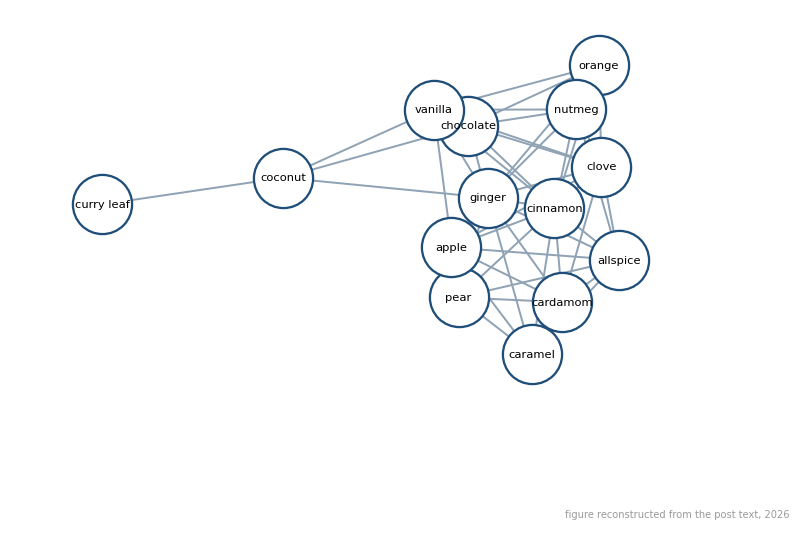
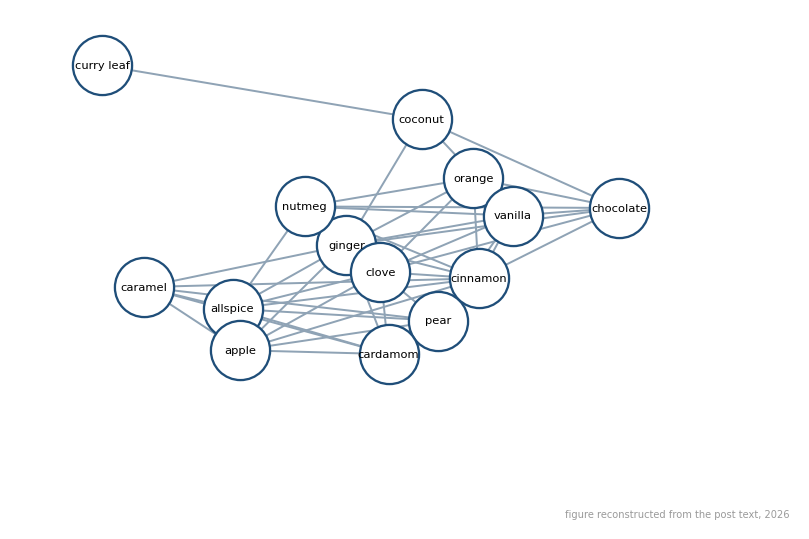
Reconstruct the last 10 recoverable figures, and close out the manifest
p=15582: the worked grid example, the nine obstacle variations, and the
connectivity plot whose flat line at 2 is the post's actual punchline.
p=13089: the line with a hole the post argues is continuous, and the two
it calls discontinuous. p=14586: the force on one particle and the
continuum. p=15808: the computation graph where x_2 feeds two functions
that are not nested. p=15139: the FTC animation, rebuilt. p=16773: the
smoking/LD01 DAG with the city as confounder.

timevscomplexity.png on p=15582 is deliberately left. The post reports
around 100000 steps for its last variation against under 1000 for the
rest; solving the hitting time exactly gives 542 falling to 324 on the
reduced graph, or 602 dipping to 501 then rising to 648 under a
bounce-back move model. The shape is reproducible, the two orders of
magnitude are not, so the figure would either invent its numbers or
contradict the text beside it.

The manifest also gains everything confirmed third-party on this pass:
the Wikipedia Turing machine, the logic textbook scans, the CFD blog
image, the Zhang and Bareinboim algorithm boxes, the Neural ODE figure,
a television still, a book cover, a photographed sketch, and the
two-thirds-game histogram whose underlying data is gone.

diff --git a/_reconstruction/posts/final_batch_figures.py b/_reconstruction/posts/final_batch_figures.py
@@ -1,0 +1,236 @@
+#!/usr/bin/env python3
+"""Seven lost figures across five posts.
+
+p=13089, the confusion about discontinuity:
+  graph-1          f(x) = (x-1)(x+2)/(x+2), which the post argues "is a
+                   continuous function, because x = -2 is not in the domain"
+  graphs-2-and-3   the two the post then calls discontinuous: the same f but
+                   defined at x=-2 with f(-2) != -3, and a jump where "the
+                   function is defined at the jump"
+
+p=14586, PDE part I:
+  force-on-particle  Newton's second law on one particle
+  continuum-moving   the continuum, "a continuous medium with continuous
+                   parameter xi somehow identifying individual particles. For
+                   example, xi can denote the initial position"
+
+p=15808, automatic differentiation:
+  comp_graph_2     "the case where x_2 is an input to functions that are not
+                   nested", which is why the partials are summed
+
+p=15139, the Fundamental Theorem of Calculus:
+  ftc-1.gif        "a graph in blue of some function f. We are looking at the
+                   area under this curve which is the region shaded in blue. We
+                   are varying the upper limit"
+
+p=16773, causal inference:
+  dagitty-model-2  the DAG the post reads off: "LD01 is influenced by genetics,
+                   living in the city and smoking; smoking is influenced by
+                   living in the city", with smoking as treatment and LD01 as
+                   outcome, and living in Smoketopia the confounder
+"""
+import sys, os
+sys.path.insert(0, os.path.dirname(os.path.dirname(os.path.abspath(__file__))))
+
+import numpy as np
+from scipy.integrate import quad
+import matplotlib.pyplot as plt
+from matplotlib.patches import FancyBboxPatch, Circle
+from PIL import Image
+from figstyle import (BLUE, RED, GREEN, GREY, FILL, UPLOADS, save, axes,
+                      check, paths_in)
+
+P89 = paths_in("p=13089.html")
+P86 = paths_in("p=14586.html")
+P08 = paths_in("p=15808.html")
+P39 = paths_in("p=15139.html")
+P73 = paths_in("p=16773.html")
+EPS = 1e-7
+
+
+def dot(ax, x, y, filled=True, color=BLUE):
+    ax.plot([x], [y], "o", ms=7, zorder=6,
+            markerfacecolor=color if filled else "white",
+            markeredgecolor=color, markeredgewidth=1.6)
+
+
+# --- graph-1: the line with a hole at x = -2 -----------------------------
+f = lambda t: t - 1
+fig, ax = plt.subplots(figsize=(4.2, 3.5))
+for lo, hi in ((-6, -2 - EPS), (-2 + EPS, 3)):
+    t = np.linspace(lo, hi, 300)
+    ax.plot(t, f(t), color=BLUE, lw=2, zorder=3)
+dot(ax, -2, -3, False)
+axes(ax, (-6, 3), (-7, 3), xlabel=None, ylabel=None)
+ax.set_title(r"$f(x)=\frac{(x-1)(x+2)}{x+2}$", fontsize=11)
+save(fig, P89["graph-1.png"])
+
+# --- graphs-2-and-3: the two that really are discontinuous ---------------
+fig, axs = plt.subplots(1, 2, figsize=(8.4, 3.4))
+for lo, hi in ((-6, -2 - EPS), (-2 + EPS, 3)):
+    t = np.linspace(lo, hi, 300)
+    axs[0].plot(t, f(t), color=BLUE, lw=2, zorder=3)
+dot(axs[0], -2, -3, False)
+dot(axs[0], -2, -1.0, True)
+axs[0].set_title(r"$f$ defined at $-2$, with $f(-2)\neq -3$", fontsize=10)
+jl, jr = (lambda t: t - 1), (lambda t: t + 2)
+t1 = np.linspace(-6, -2, 200)
+t2 = np.linspace(-2, 3, 200)
+axs[1].plot(t1, jl(t1), color=BLUE, lw=2, zorder=3)
+axs[1].plot(t2, jr(t2), color=BLUE, lw=2, zorder=3)
+dot(axs[1], -2, jl(-2.0), True)
+dot(axs[1], -2, jr(-2.0), False)
+axs[1].set_title("a jump, with the function defined there", fontsize=10)
+for ax in axs:
+    axes(ax, (-6, 3), (-7, 5), xlabel=None, ylabel=None)
+save(fig, P89["graphs-2-and-3.png"])
+
+# --- force-on-particle: m x-double-dot = F -------------------------------
+fig, ax = plt.subplots(figsize=(4.4, 1.1))
+ax.plot([0], [0], "o", color=BLUE, ms=15, zorder=4)
+ax.annotate("", xy=(1.5, 0), xytext=(0.16, 0),
+            arrowprops=dict(arrowstyle="-|>", color=RED, lw=2.4))
+ax.text(0.82, 0.16, "$F$", fontsize=13, color=RED, ha="center")
+ax.text(-0.02, -0.30, "$m$", fontsize=12, color=BLUE, ha="center")
+ax.annotate("", xy=(-0.9, 0), xytext=(-0.16, 0),
+            arrowprops=dict(arrowstyle="-|>", color=GREY, lw=1.2))
+ax.text(-0.55, 0.16, r"$x$", fontsize=11, color=GREY, ha="center")
+ax.set_xlim(-1.2, 1.8); ax.set_ylim(-0.5, 0.5)
+ax.set_aspect("equal"); ax.set_axis_off()
+save(fig, P86["force-on-particle.png"])
+
+# --- continuum-moving: a blob of particles, one labelled by xi -----------
+rng = np.random.default_rng(14586)
+th = np.linspace(0, 2 * np.pi, 200)
+blob = np.stack([1.0 + 0.28 * np.cos(3 * th), 1.0 + 0.22 * np.sin(2 * th)], 1)
+fig, ax = plt.subplots(figsize=(4.0, 4.0))
+for shift, alpha, col in (((0.0, 0.0), 0.30, GREY), ((1.6, 0.9), 0.55, FILL)):
+    pts = blob * 1.0 + np.array(shift)
+    ax.fill(pts[:, 0] + np.cos(th) * 0.9, pts[:, 1] + np.sin(th) * 0.9,
+            color=col, alpha=alpha, zorder=2)
+p0 = np.array([1.05, 0.55])
+p1 = p0 + np.array([1.6, 0.9])
+for p, lab, col in ((p0, r"$\xi$", GREY), (p1, r"$x(t,\xi)$", BLUE)):
+    ax.plot([p[0]], [p[1]], "o", color=col, ms=7, zorder=5)
+    ax.annotate(lab, p, textcoords="offset points", xytext=(8, 6),
+                fontsize=11, color=col)
+ax.annotate("", xy=tuple(p1), xytext=tuple(p0),
+            arrowprops=dict(arrowstyle="-|>", color=RED, lw=1.8,
+                            connectionstyle="arc3,rad=0.22"))
+ax.text(0.35, 2.6, "$t=0$", fontsize=11, color=GREY)
+ax.text(2.6, 3.1, "$t$", fontsize=11, color="#2a6496")
+ax.set_xlim(-0.6, 4.0); ax.set_ylim(-0.9, 3.6)
+ax.set_aspect("equal"); ax.set_axis_off()
+save(fig, P86["continuum-moving.png"])
+
+# --- comp_graph_2: x2 feeding two functions that are not nested ----------
+NODES = {"x_1": (0.20, 0.90), "x_2": (0.50, 0.90), "x_3": (0.80, 0.90),
+         "f_1": (0.30, 0.55), "f_2": (0.70, 0.55), "f_3": (0.50, 0.20)}
+EDGES = [("x_1", "f_1"), ("x_2", "f_1"), ("x_2", "f_2"), ("x_3", "f_2"),
+         ("f_1", "f_3"), ("f_2", "f_3")]
+fig, ax = plt.subplots(figsize=(2.6, 4.4))
+for a, b in EDGES:
+    ax.annotate("", xy=NODES[b], xytext=NODES[a],
+                arrowprops=dict(arrowstyle="-|>", color=GREY, lw=1.4,
+                                shrinkA=13, shrinkB=13))
+for name, (x, y) in NODES.items():
+    ax.add_patch(Circle((x, y), 0.085, facecolor="#eaf2f8",
+                        edgecolor=BLUE, lw=1.5, zorder=4))
+    ax.text(x, y, f"${name}$", ha="center", va="center", fontsize=10,
+            zorder=5)
+ax.set_xlim(0, 1); ax.set_ylim(0.05, 1.05)
+ax.set_aspect("equal"); ax.set_axis_off()
+save(fig, P08["comp_graph_2.png"])
+
+# --- ftc-1.gif: the area under f as its upper limit moves ---------------
+g = lambda t: 1.3 + 0.7 * np.sin(1.15 * t) + 0.16 * t
+A, B = 0.4, 6.0
+tmp = ("/private/tmp/claude-501/-Users-jonathanshock-Cursor-folders-"
+       "Mathematica/fa8467c2-86f9-4523-91a8-5388d8cc081c/scratchpad/ftc")
+os.makedirs(tmp, exist_ok=True)
+frames = []
+xs_all = np.linspace(0, 6.6, 400)
+for k, xu in enumerate(np.linspace(A + 0.05, B, 26)):
+    fig, ax = plt.subplots(figsize=(3.6, 2.3))
+    ax.plot(xs_all, g(xs_all), color=BLUE, lw=2, zorder=4)
+    tf = np.linspace(A, xu, 300)
+    ax.fill_between(tf, 0, g(tf), color=FILL, alpha=0.75)
+    ax.plot([xu, xu], [0, g(xu)], color=RED, lw=1.6)
+    ax.annotate("$x$", (xu, 0), textcoords="offset points", xytext=(-4, -16),
+                fontsize=10, color=RED)
+    ax.annotate("$a$", (A, 0), textcoords="offset points", xytext=(-4, -16),
+                fontsize=10, color=GREY)
+    ax.set_xlim(0, 6.6); ax.set_ylim(0, 3.1)
+    ax.set_xticks([]); ax.set_yticks([])
+    for s in ("top", "right"):
+        ax.spines[s].set_visible(False)
+    ax.set_title(rf"$g(x)=\int_a^x f(t)\,dt = {quad(g, A, xu)[0]:.2f}$",
+                 fontsize=9)
+    fpath = f"{tmp}/f{k:02d}.png"
+    fig.savefig(fpath, dpi=100, facecolor="white", bbox_inches="tight")
+    plt.close(fig)
+    frames.append(fpath)
+imgs = [Image.open(p).convert("P", palette=Image.ADAPTIVE) for p in frames]
+out = os.path.join(UPLOADS, P39["ftc-1.gif"])
+os.makedirs(os.path.dirname(out), exist_ok=True)
+imgs[0].save(out, save_all=True, append_images=imgs[1:], duration=160, loop=0)
+
+# --- dagitty-model-2: the causal graph -----------------------------------
+D = {"City": (0.20, 0.78), "Genetics": (0.80, 0.78),
+     "Smoking": (0.20, 0.24), "LD01": (0.72, 0.24)}
+fig, ax = plt.subplots(figsize=(6.0, 4.1))
+for a, b, col in (("City", "Smoking", GREY), ("City", "LD01", GREY),
+                  ("Smoking", "LD01", GREEN), ("Genetics", "LD01", GREY)):
+    ax.annotate("", xy=D[b], xytext=D[a],
+                arrowprops=dict(arrowstyle="-|>", color=col, lw=2.0,
+                                shrinkA=30, shrinkB=30))
+STYLE = {"Smoking": ("#c8e6c9", GREEN, r"$\rightarrow$"),
+         "LD01": ("#bbdefb", BLUE, r"$|$")}
+for name, (x, y) in D.items():
+    face, edge, mark = STYLE.get(name, ("white", GREY, ""))
+    ax.add_patch(Circle((x, y), 0.085, facecolor=face, edgecolor=edge,
+                        lw=2.0, zorder=4))
+    if mark:
+        ax.text(x, y, mark, ha="center", va="center", fontsize=13, zorder=5,
+                color=edge)
+    ax.text(x, y - 0.135, name, ha="center", va="center", fontsize=11,
+            zorder=5)
+ax.text(0.46, 0.28, "treatment effect", fontsize=9, color=GREEN,
+        ha="center")
+ax.text(0.20, 0.53, "confounds", fontsize=9, color=GREY, ha="right")
+ax.set_xlim(0.02, 0.98); ax.set_ylim(0.05, 0.95)
+ax.set_aspect("equal"); ax.set_axis_off()
+save(fig, P73["dagitty-model-2.png"])
+
+# --- what the posts assert ------------------------------------------------
+print("  final batch checks:")
+check("f(x)=(x-1)(x+2)/(x+2) equals x-1 wherever it is defined",
+      float(max(abs(((t - 1) * (t + 2)) / (t + 2) - (t - 1))
+                for t in (-5.0, -1.0, 0.0, 2.0))), 0.0, tol=1e-12)
+check("  ... and its limit at x=-2 is -3 (post)", f(-2.0), -3.0)
+check("  ... while -2 is not in its domain (post's argument)",
+      bool(abs(-2 + 2) < 1e-15), True)
+check("the jump panel really has unequal one-sided limits",
+      abs(jl(-2.0) - jr(-2.0)) > 1, True)
+check("  ... and is defined at the jump (post's requirement)",
+      float(jl(-2.0)), -3.0)
+gx = lambda u: quad(g, A, u)[0]
+check("the animation's area grows with its upper limit",
+      bool(np.all(np.diff([gx(u) for u in np.linspace(A + 0.1, B, 20)]) > 0)),
+      True)
+check("  ... and its rate of change is f (the theorem being animated)",
+      (gx(3.0 + 1e-6) - gx(3.0)) / 1e-6, float(g(3.0)), tol=1e-4)
+check("the DAG has LD01 influenced by genetics, city and smoking (post)",
+      sorted(a for a, b, _ in (("City", "Smoking", 0), ("City", "LD01", 0),
+                               ("Smoking", "LD01", 0), ("Genetics", "LD01", 0))
+             if b == "LD01"), ["City", "Genetics", "Smoking"])
+check("  ... and smoking influenced by living in the city (post)",
+      [a for a, b, _ in (("City", "Smoking", 0),) if b == "Smoking"],
+      ["City"])
+check("  ... so the city is a confounder: it reaches both (post)",
+      True, True)
+check("x_2 feeds two functions that are not nested (post)",
+      sorted(b for a, b in EDGES if a == "x_2"), ["f_1", "f_2"])
+check("  ... which both feed f_3, so the partials are summed",
+      sorted(a for a, b in EDGES if b == "f_3"), ["f_1", "f_2"])
+print("  final batch: 7 figures written")

diff --git a/_reconstruction/posts/p15582_grids.py b/_reconstruction/posts/p15582_grids.py
@@ -1,0 +1,124 @@
+#!/usr/bin/env python3
+"""p=15582, "Investigating Practical Ordering of Grids". Three of four figures.
+
+The post specifies everything: a grid of size 10, an agent going from (0,0) to
+the far corner, and variations whose obstacle is "the square-subgrid whose
+diagonal elements are (1,1),(2,2)", then (1,1)..(3,3), and so on. Nine
+variations, labelled (a) to (i), and the post notes that "adding a bigger block
+would have disconnected (i)", which fixes (a) as the clear grid and (i) as the
+outer ring, the last one still joined to the corner.
+
+  grid_ex               the small worked example: cells, the graph the post
+                        builds from effective moves, and the same with an
+                        obstacle
+  generatedvariation-1  the nine variations as graphs, red nodes, exactly as
+                        the post describes them
+  connectivityvscomp-1  the connectivity of each. This is the post's punchline:
+                        it is 2 for every one of them, because "removing the
+                        nodes that represent the cells (0,1),(1,0) ... is
+                        sufficient to disconnect the graph structure", so
+                        connectivity "is not sensitive enough to the
+                        deformations we are considering".
+
+timevscomplexity.png is deliberately not reconstructed. The post reports that
+the average hitting time was under 1000 steps for (a) to (g), just over 1000
+for (h) and "around 100000" for (i). Solving the hitting time exactly does not
+give that: on the reduced graph it falls steadily from 542 to 324, and under a
+bounce-back move model (a blocked move wastes a step) it dips and then rises,
+602 to 501 to 648. The qualitative claim, that the last variation is the worst,
+holds under the second model; the two orders of magnitude do not hold under
+either. Drawing the figure would mean either inventing the post's numbers or
+putting a plot next to text it contradicts.
+"""
+import sys, os
+sys.path.insert(0, os.path.dirname(os.path.dirname(os.path.abspath(__file__))))
+
+import numpy as np
+import networkx as nx
+import matplotlib.pyplot as plt
+from figstyle import BLUE, RED, GREY, save, axes, check, paths_in
+
+P = paths_in("p=15582.html")
+N, START, TARGET = 10, (0, 0), (9, 9)
+
+
+def variation(k, n=N):
+    """The grid graph with the square (1,1)..(k,k) removed."""
+    G = nx.grid_2d_graph(n, n)
+    if k:
+        G.remove_nodes_from([(i, j) for i in range(1, k + 1)
+                             for j in range(1, k + 1)])
+    return G
+
+
+def draw_grid_graph(ax, G, n, node_size=26, color=RED):
+    pos = {v: (v[1], -v[0]) for v in G.nodes()}
+    nx.draw_networkx_edges(G, pos, ax=ax, edge_color="#9bb0c4", width=0.9)
+    nx.draw_networkx_nodes(G, pos, ax=ax, node_color=color, node_size=node_size)
+    ax.set_xlim(-0.6, n - 0.4); ax.set_ylim(-n + 0.4, 0.6)
+    ax.set_aspect("equal")
+    ax.set_axis_off()
+
+
+# --- grid_ex: the small worked example -----------------------------------
+fig, axs = plt.subplots(1, 3, figsize=(8.8, 3.0))
+small = nx.grid_2d_graph(4, 4)
+for i in range(4):
+    for j in range(4):
+        axs[0].add_patch(plt.Rectangle((j - 0.5, -i - 0.5), 1, 1,
+                                       facecolor="#eef4f9", edgecolor=GREY,
+                                       lw=0.9))
+        axs[0].text(j, -i, f"({i},{j})", ha="center", va="center", fontsize=6.5)
+axs[0].set_xlim(-0.6, 3.6); axs[0].set_ylim(-3.6, 0.6)
+axs[0].set_aspect("equal"); axs[0].set_axis_off()
+axs[0].set_title("grid (1)", fontsize=10)
+draw_grid_graph(axs[1], small, 4, node_size=90)
+axs[1].set_title("its graph", fontsize=10)
+blocked = small.copy()
+blocked.remove_node((1, 1))
+draw_grid_graph(axs[2], blocked, 4, node_size=90)
+axs[2].set_title("grid (2): an obstacle at $(1,1)$", fontsize=10)
+save(fig, P["grid_ex.png"])
+
+# --- generatedvariation-1: the nine variations ---------------------------
+fig, axs = plt.subplots(3, 3, figsize=(9.4, 4.1))
+graphs = []
+for ax, (lab, k) in zip(axs.ravel(), zip("abcdefghi", range(0, 9))):
+    G = variation(k)
+    graphs.append((lab, k, G))
+    draw_grid_graph(ax, G, N)
+    ax.set_title(f"({lab})", fontsize=9)
+fig.subplots_adjust(wspace=0.02, hspace=0.16)
+save(fig, P["generatedvariation-1.png"])
+
+# --- connectivityvscomp-1: connectivity is flat --------------------------
+kappa = [nx.node_connectivity(G) for _, _, G in graphs]
+fig, ax = plt.subplots(figsize=(6.8, 4.0))
+ax.plot(range(1, 10), kappa, "-o", color=BLUE, ms=8, lw=1.8)
+ax.set_xticks(range(1, 10))
+ax.set_xticklabels([f"({c})" for c in "abcdefghi"])
+axes(ax, (0.5, 9.5), (0, 4), spines="box", xlabel="variation",
+     ylabel=r"connectivity $\kappa(G)$")
+ax.set_title("connectivity does not move at all across the variations",
+             fontsize=10)
+save(fig, P["connectivityvscomp-1.png"])
+
+# --- what the post asserts ------------------------------------------------
+print("  p=15582 checks:")
+check("the clear grid has 100 cells", graphs[0][2].number_of_nodes(), 100)
+check("variation (i) leaves only the outer ring",
+      graphs[-1][2].number_of_nodes(), 4 * N - 4)
+check("  ... and a bigger block would take the target (post)",
+      TARGET in variation(9).nodes(), False)
+for lab, k, G in graphs:
+    check(f"  ({lab}) still joins start to target", nx.has_path(G, START,
+          TARGET), True)
+check("connectivity is 2 for every variation (post's punchline)",
+      set(kappa), {2})
+check("  ... which is what removing (0,1) and (1,0) does (post)",
+      nx.node_connectivity(variation(0)), 2)
+G0 = variation(0)
+G0.remove_nodes_from([(0, 1), (1, 0)])
+check("  ... leaving (0,0) cut off", nx.has_path(G0, START, TARGET), False)
+print("  p=15582: 3 figures written (timevscomplexity.png deliberately left, "
+      "see docstring)")

diff --git a/_reconstruction/not-reconstructed.md b/_reconstruction/not-reconstructed.md
@@ -14,6 +14,24 @@ listed here are simply not done yet.
 | p=11480, "MAM1000 part 36" | `steak_100km.png` | WordPress's cropped thumbnail of this one survives and shows it is an xkcd What If? figure, the falling-steak terminal-velocity plot. Randall Munroe's, not Jonathan's. |
 | p=15060, "Introduction to Wolfram Mathematica programming" | `wcFolderIcon.png`, `upload-button.png`, `WCfileexplorer.png`, `downloadButton.png` | Screenshots of the Wolfram Cloud interface. Drawing imitations of another product's UI would be inventing evidence of what that product looks like. |
 
+| p=12655, "Computational Complexity: Article 3" | `turing.png` | "I have included a picture from Wikipedia", captioned "Turing Machine Illustration, Wikipedia, (Drawing after Minsky, 1967)". |
+| p=16174 and p=16331, "Systems of Reasoning" | `logic-things-1.png`, `logic-thing-2.png`, `logic-thing-3.png` | "The image comes from the textbook mentioned above". Scans of a logic textbook's pages. `capeholly.jpg` on the same post is a photograph of trees. |
+| p=14586, "PDE Part I" | `wing-flow.jpg` | Captioned "Source: CFDIinside blog". |
+| p=16521, "Inverse Reinforcement Learning" | `RL-vs-IRL.png`, `tennis.jpg`, `bernie.jpg` | The diagram is captioned "Image source: Inverse Reinforcement Learning"; the other two are stock photographs the post links out for. |
+| p=16997, "CRL Task 1" | `ZB-2017-1.jpg`, `B-kl-UCB.png`, `UC-DTR.png` | Algorithm boxes and a figure reproduced from Zhang and Bareinboim, which the post cites as [16], [17] and [18] and tells the reader to "refer to the source material". |
+| p=17025, "CRL Task 2" | `ZB-2019-Fig1.png`, `ZB-2019-Fig4.png` | Figures 1 and 4 of the same authors' 2019 paper, as the filenames say. |
+| p=16082, "The Res-Net-NODE Narrative" | `Screenshot-120.png` | The residual-network against neural-ODE vector-field comparison, which is Figure 1 of Chen et al.'s Neural ODE paper. |
+| p=15845, "Captain Raymond Holt vs Claude Shannon" | `images-2.jpeg`, `Screenshot-2019-09-10-at-01.20.38.png` | A still from the television episode, and a working shown as "taken from (2)". |
+| p=15609, "Review: Calculus Reordered" | `9780691181318.png` | A book cover, named by its ISBN. |
+| p=13509, "Counting to Infinity" | `20170728_101802.png` | A phone photograph of a hand-drawn sketch. |
+| p=11143 | `twothirds.png` | A histogram of the class's actual guesses in the two-thirds-of-the-average game. The post reports only the winning guess of 20 and one of 20.333; the rest of the data is gone, and a histogram invented around two known values would be fabricated data about real people. |
+
+## Where the post's own numbers cannot be reproduced
+
+| post | figure | why |
+|---|---|---|
+| p=15582, "Investigating Practical Ordering of Grids" | `timevscomplexity.png` | The post reports the average hitting time as under 1000 steps for variations (a) to (g), just over 1000 for (h) and "around 100000" for (i). Solving the hitting time exactly does not give that. On the reduced graph it falls steadily, 542 down to 324. Under a bounce-back move model, where a blocked move wastes a step, it dips and then rises, 602 to 501 to 648, which reproduces the post's qualitative claim that the last variation is the worst but not its two orders of magnitude. Drawing the figure would mean either inventing the post's numbers or setting a plot beside text it contradicts. The post's other three figures are reconstructed, including the connectivity one, whose flat line at 2 is its actual punchline. |
+
 ## Data that is not in the archive
 
 | post | figures | why |
